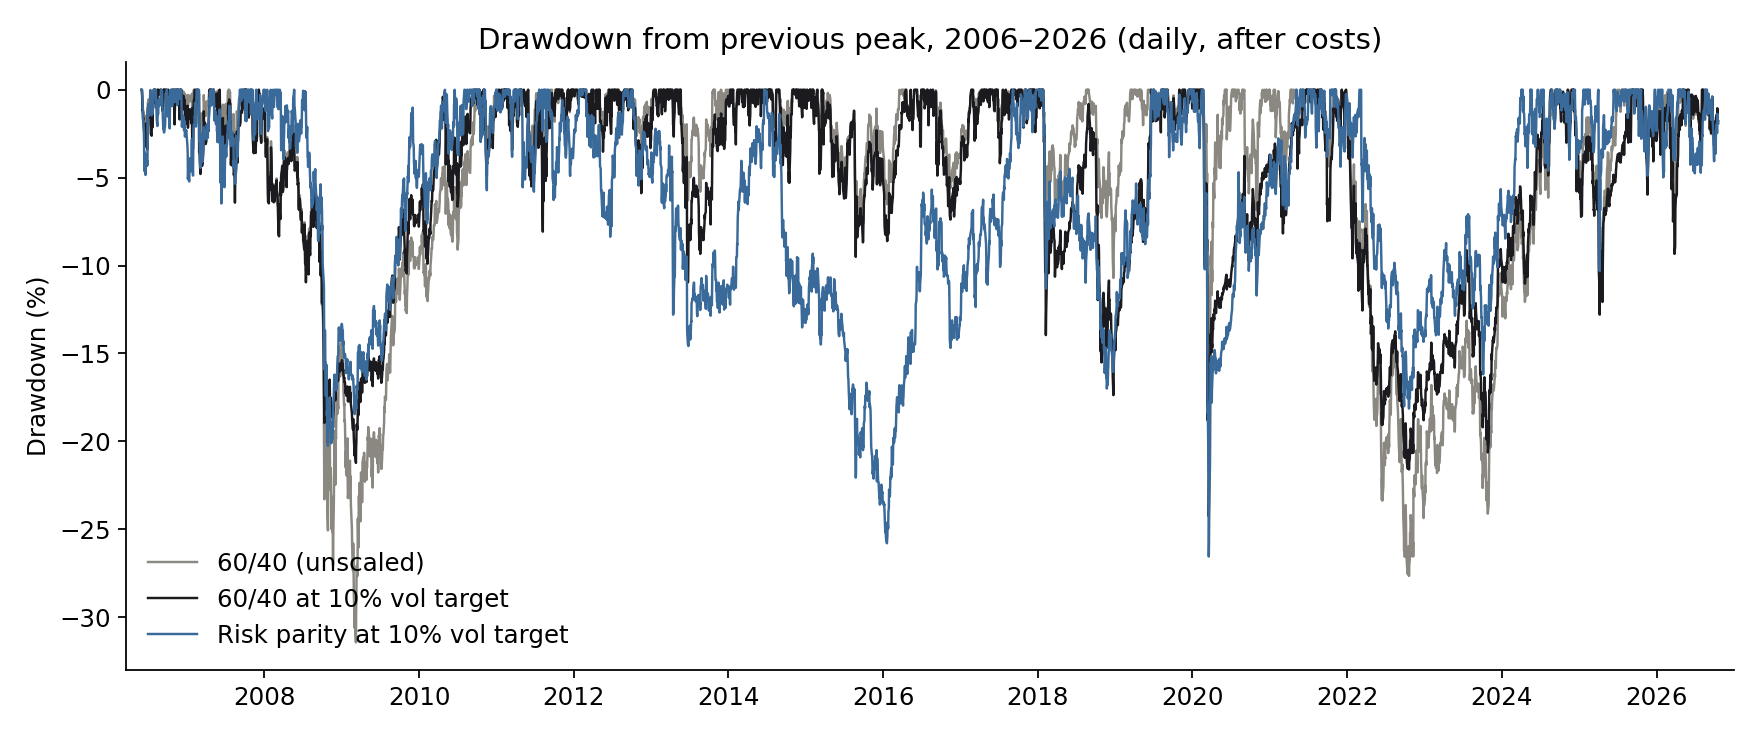
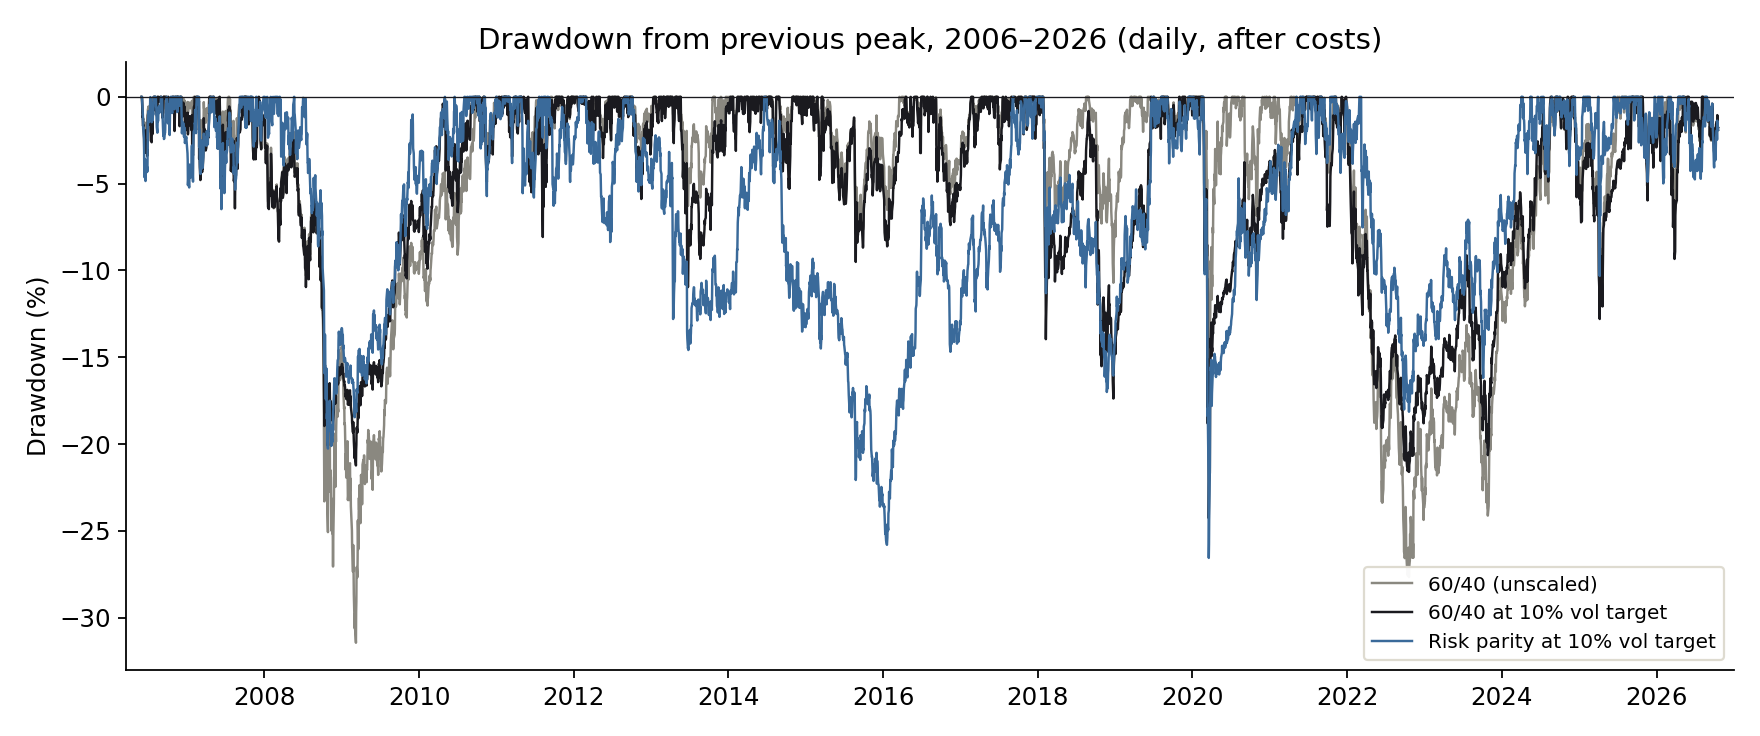
chart, metrics and code

diff --git a/src/riskbud/pipeline.py b/src/riskbud/pipeline.py
@@ -207,7 +207,9 @@ def figures(fd: Path, sims, rc, corr, W):
         eq = (1 + sims[k].ret).cumprod()
         ax.plot(tt(eq.index), (eq / eq.cummax() - 1) * 100, color=col[k], lw=1.1, label=lab[k])
     ax.set_title("Drawdown from previous peak, 2006–2026 (daily, after costs)")
-    ax.set_ylabel("Drawdown (%)"); _yaxis_years(ax); ax.legend(frameon=False, loc="lower left")
+    ax.set_ylabel("Drawdown (%)"); _yaxis_years(ax)
+    ax.set_ylim(top=2); ax.axhline(0, color="#1A1A1F", lw=0.6)
+    ax.legend(frameon=True, facecolor="white", edgecolor="#DDD9CE", framealpha=0.95, loc="lower right", fontsize=9)
     t0 = tt(sims["60/40"].index); ax.set_xlim(t0[0] - 0.2, t0[-1] + 0.2)
     fig.tight_layout(); fig.savefig(fd / "drawdowns.png", dpi=160); plt.close(fig)
 
